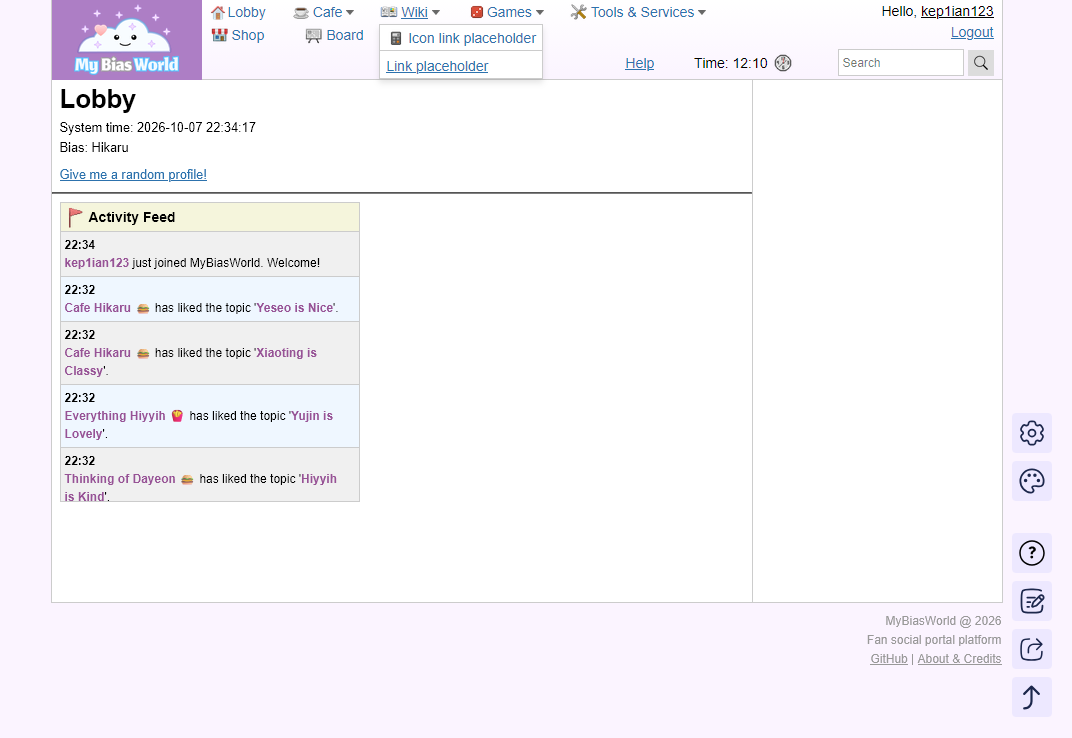
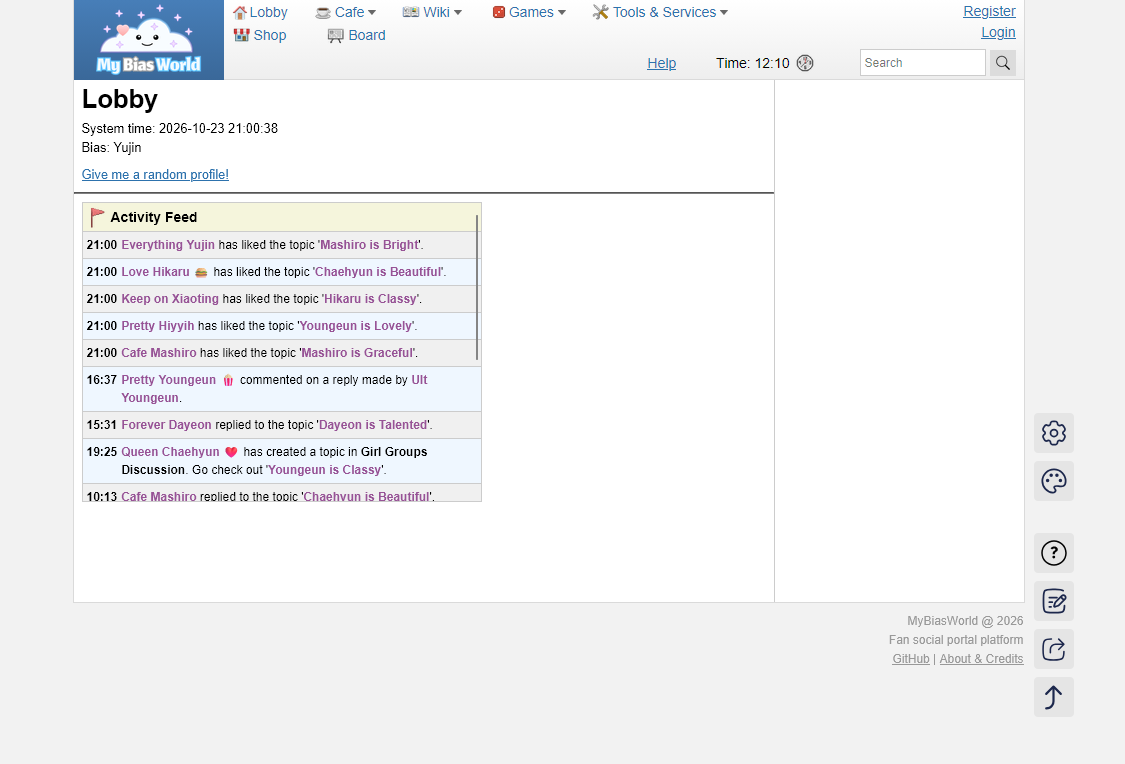
Update progress

diff --git a/README.md b/README.md
@@ -20,6 +20,8 @@ Latest progress:
 
 <img src="progress3.png" alt="website image" style="border:1px black solid;" width=500/>
 
+<img src="progress4.png" alt="website image" style="border:1px black solid;" width=500/>
+
 _(fake generated posts)_
 
 Still establishing the core system...
